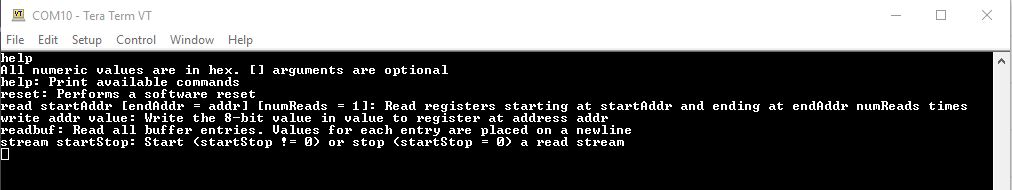
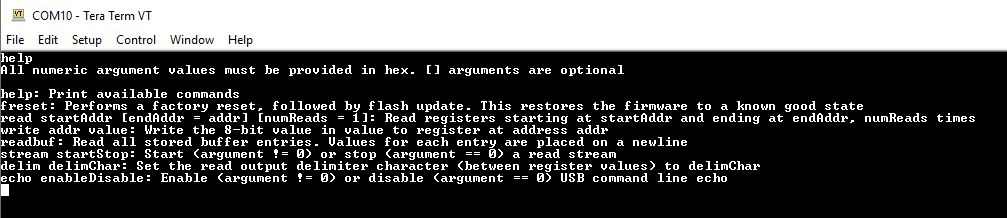
Updated CLI images and readme

Changed region(s): [[0.0, 0.0, 1.0, 1.0], [0.0, 0.0263, 0.1539, 0.1316]]

diff --git a/USB_CLI.md b/USB_CLI.md
@@ -27,6 +27,7 @@ Commands are sent to the CLI over the virtual COM port. Each command starts with
 | stream | start/stop | N/A | N/A | Start (1) / stop (0) a buffer read stream. When running, a stream is equivalent to calling readbuf every time a watermark interrupt is generated. WATERMARK_INT_CONFIG can be modified to set the data latency. Stream status is stored in USB_CONFIG |
 | write | Register address | Write Value | N/A | Write a byte to the specified register |
 | delim | Delimiter character | N/A | N/A | Set the delimiter character which is placed between register values for read operations (comma, space, etc) This value is stored in USB_CONFIG |
+| echo | Enable/Disable | N/A | N/A | Enables or disable the command line echo. If the echo is disabled, the characters sent to the CLI will not be sent back (useful for scripting) |
 
 Help Command
 ![Help](https://raw.githubusercontent.com/ajn96/iSensor-SPI-Buffer/master/img/cli_help.JPG)
@@ -49,3 +50,7 @@ Read Buffer Command
 Stream Command (WATERMARK_INT_CONFIG set to 60)
 
 ![Stream](https://raw.githubusercontent.com/ajn96/iSensor-SPI-Buffer/master/img/cli_stream.JPG)
+
+Echo Command
+
+![Echo](https://raw.githubusercontent.com/ajn96/iSensor-SPI-Buffer/master/img/cli_echo.JPG)
